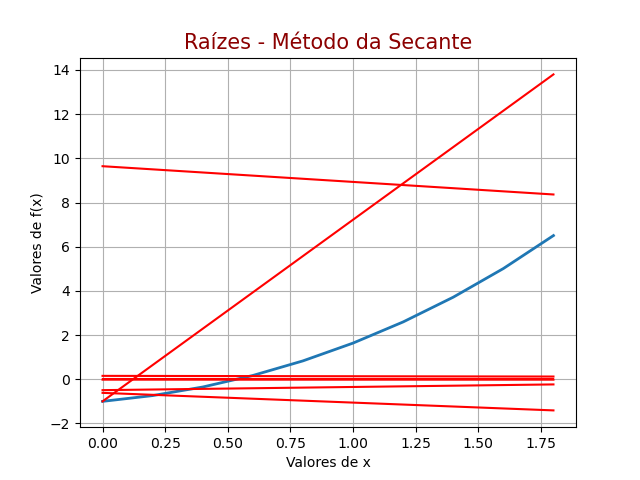
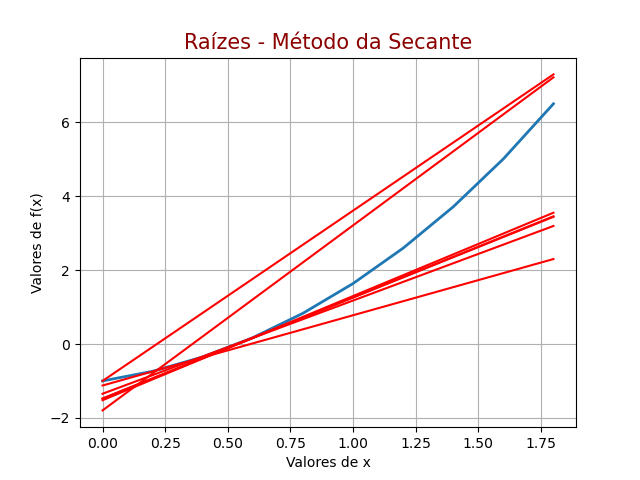
Gráfico Secante

diff --git a/entregas/parte-2/secante/secante.py b/entregas/parte-2/secante/secante.py
@@ -50,7 +50,7 @@ plt.plot(X, y, linewidth = 2)
 while abs(f1) > erro:
     k += 1    
     x_c.append(X)
-    r = (f1 * (X - x0)) + f0    
+    r = f0 + (((f1- f0) / (x1 - x0)) * (X - x0))
     r_c.append(r)        
     xk = x1 - (((x1 - x0) * f1) / (f1 - f0))
     x0 = x1
